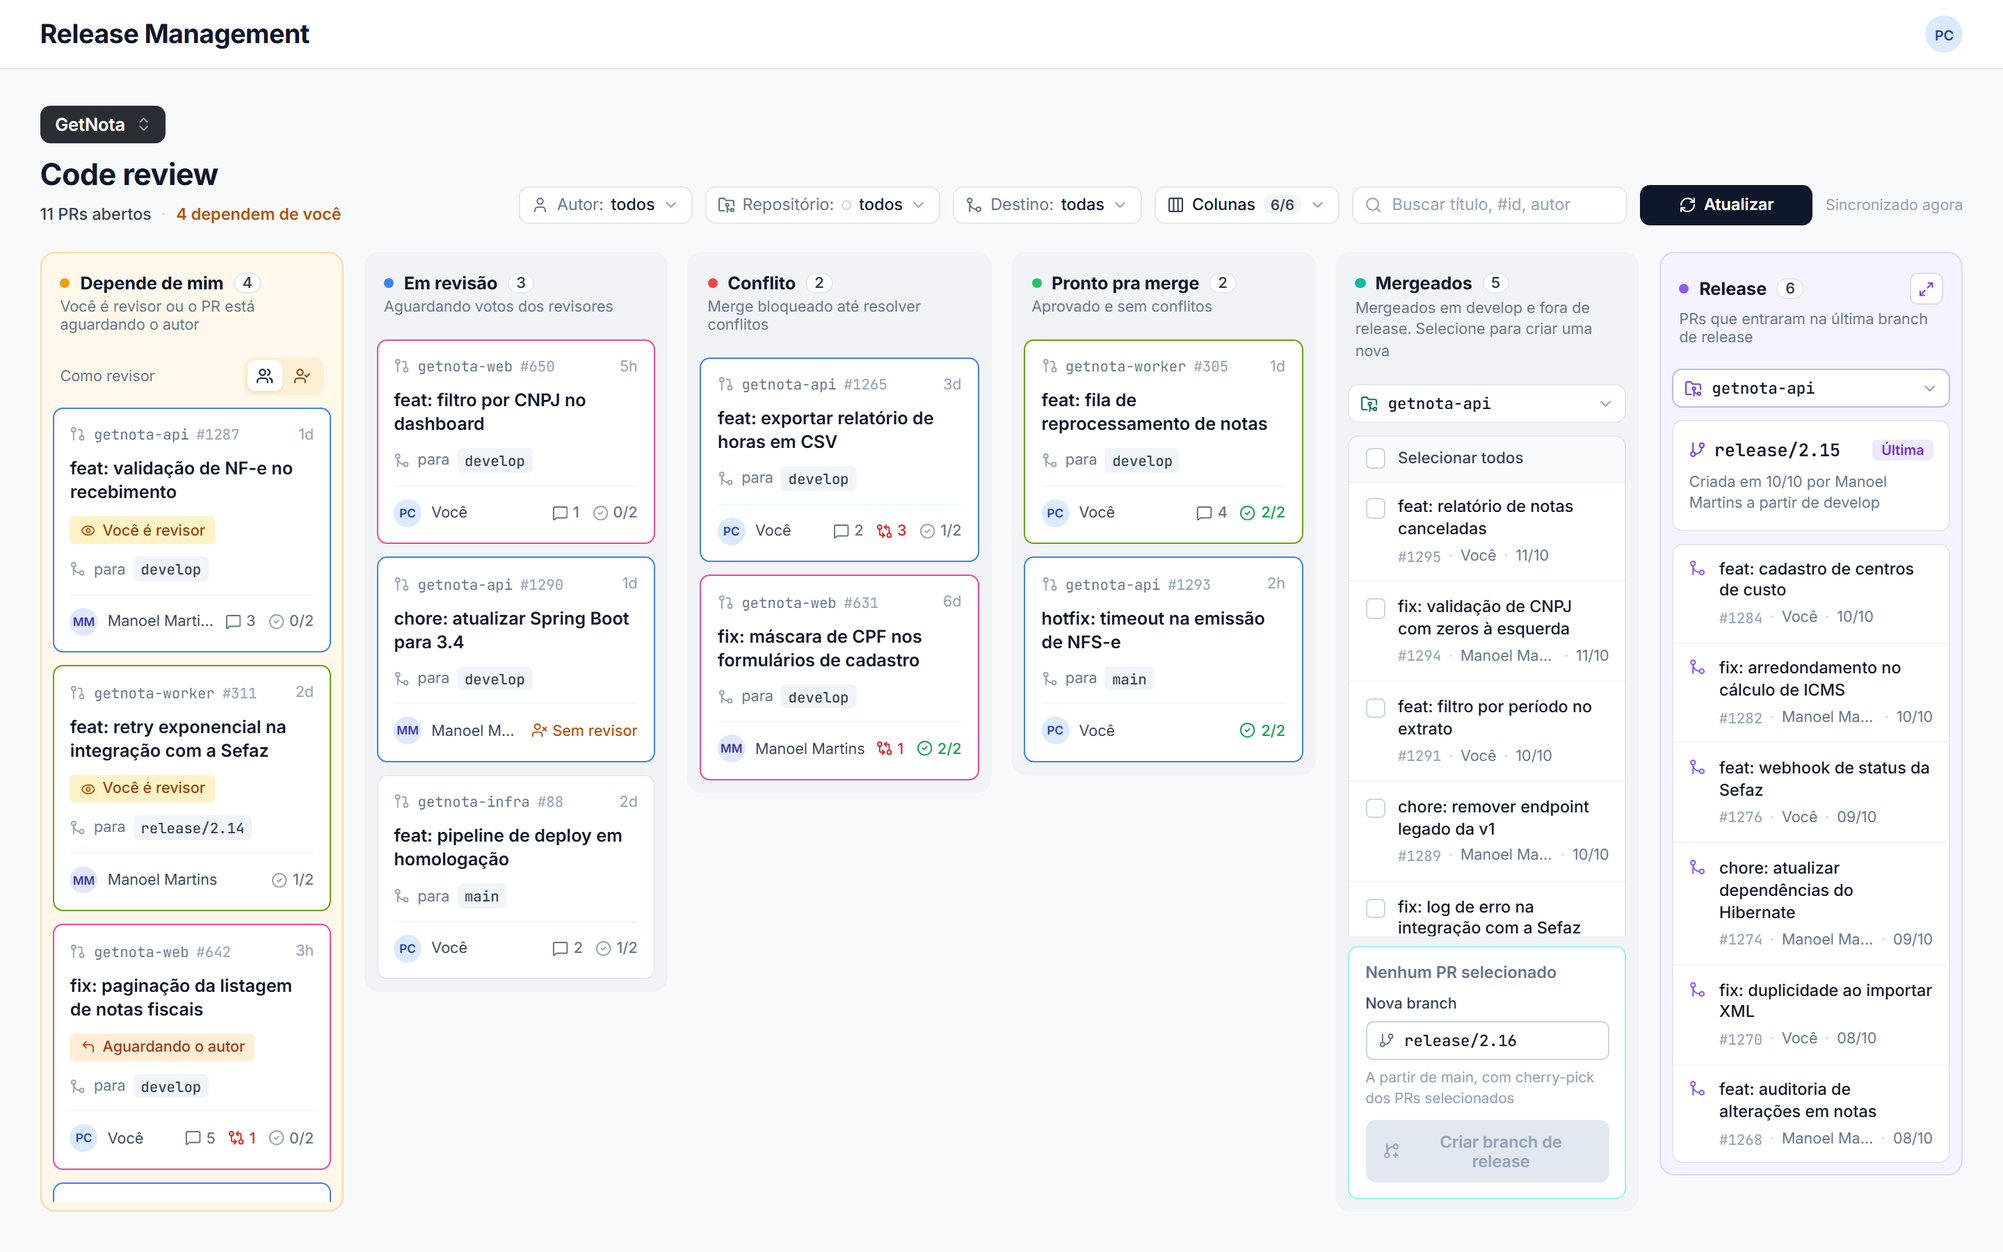
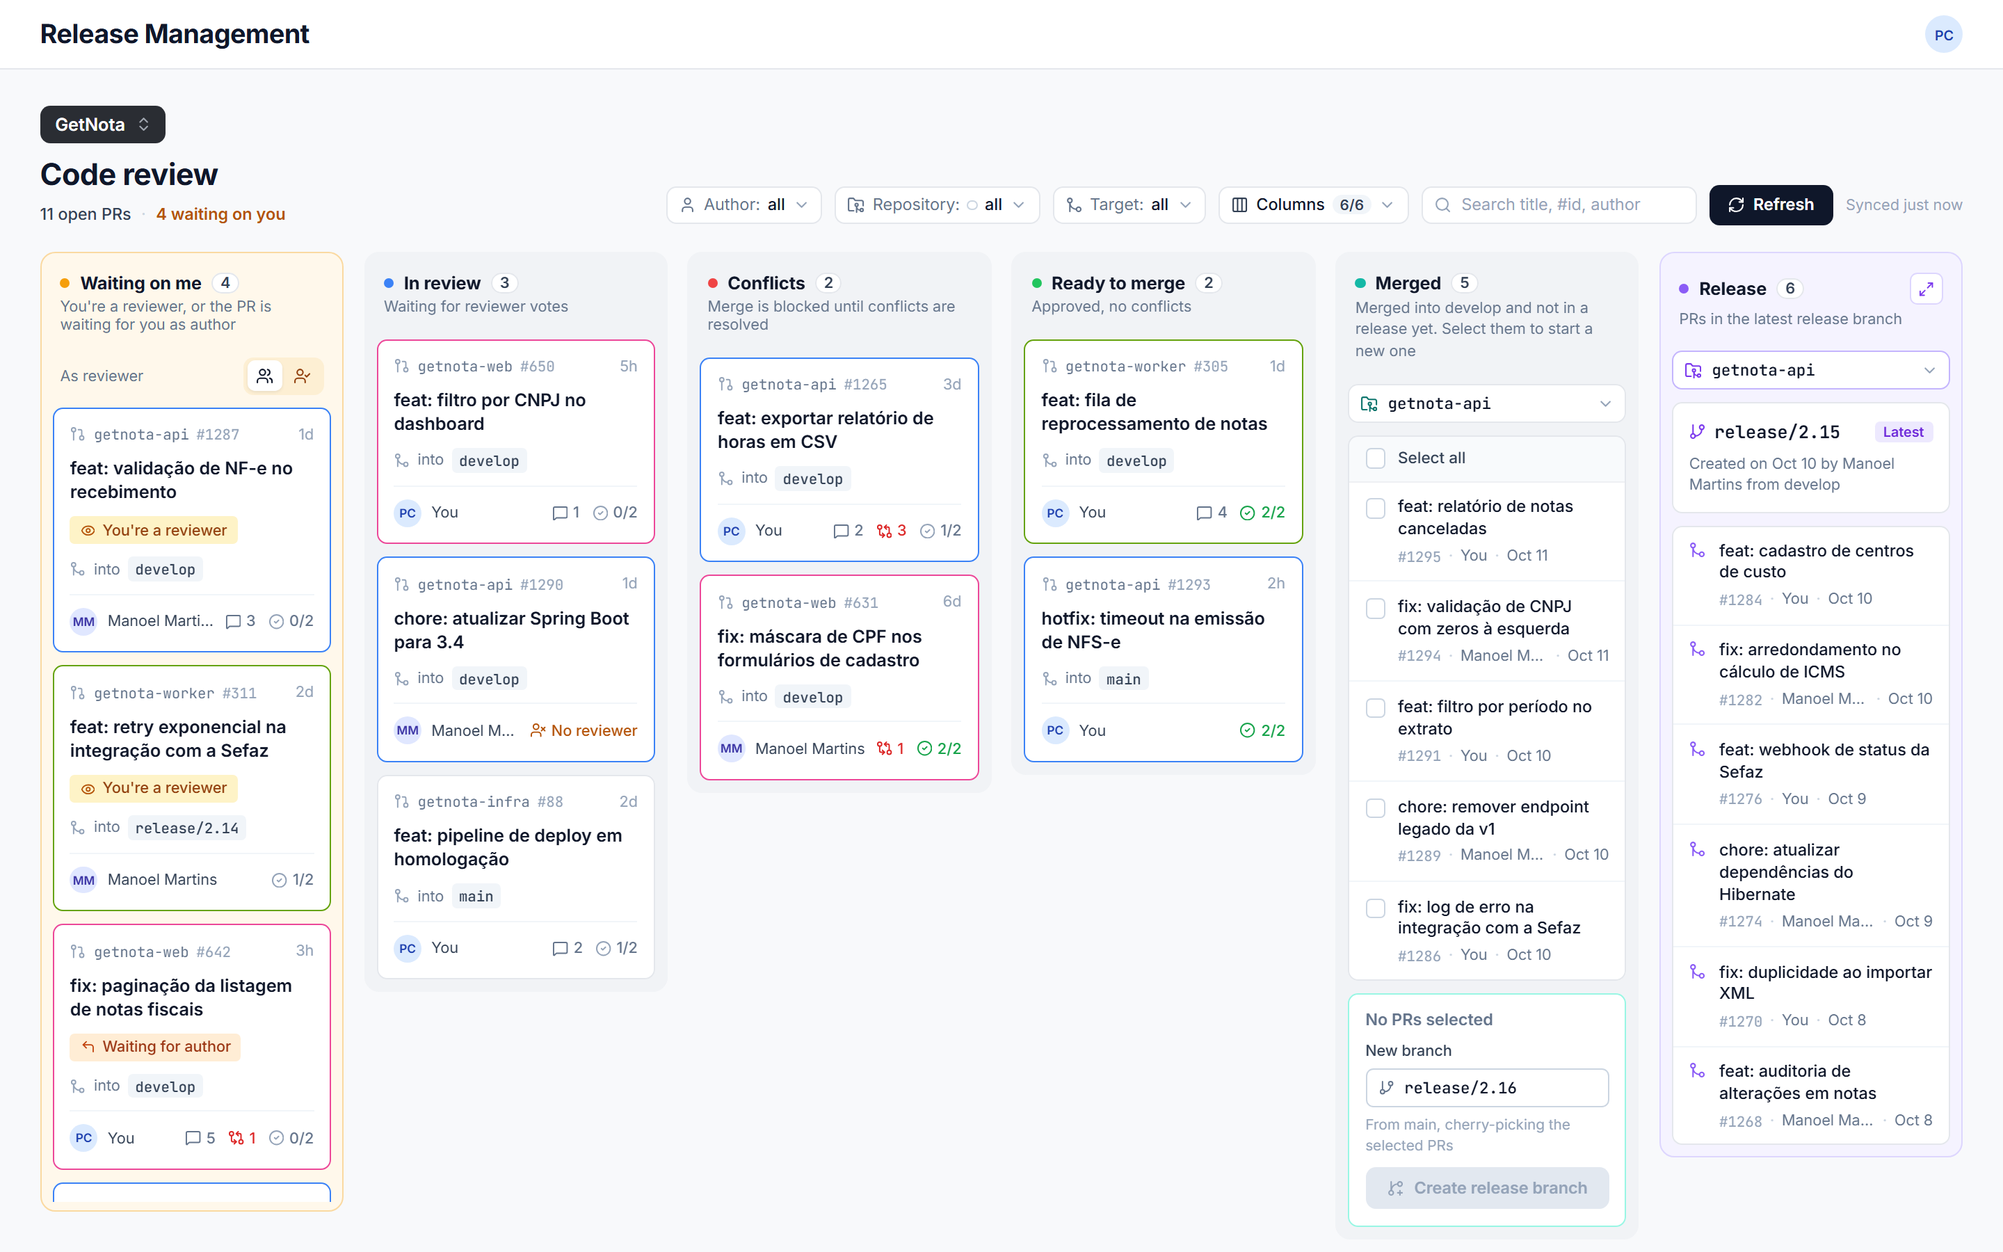
docs: README in English with English screenshots
The root README is now in English, without the paragraph about adding
another platform. Screenshots were retaken with the interface in English
and renamed; the capture script takes the language as a parameter.

diff --git a/README.md b/README.md
@@ -1,148 +1,148 @@
 # Release Management
 
-Board de code review e montagem de releases para times que trabalham com vários repositórios, pensado para um momento em que a IA gera código mais rápido do que as pessoas conseguem revisar. Reúne num só lugar os pull requests que dependem de você, o que já foi mergeado e ainda não entrou em release, e o conteúdo de cada release com as tasks de cada PR.
+A code review board and release builder for teams that work across many repositories, built for a time when AI writes code faster than people can review it. It brings together the pull requests waiting on you, what has been merged but not yet released, and the contents of each release with the task behind every PR.
 
-Os PRs vêm do **Azure DevOps** ou do **GitHub**; as tasks, do **Azure DevOps** ou do **Jira**. A ferramenta não guarda dados dessas plataformas: lê e escreve nelas com a conta de quem está usando, e cada pessoa só enxerga e altera o que as próprias permissões permitem.
+Pull requests come from **Azure DevOps** or **GitHub**; tasks come from **Azure DevOps** or **Jira**. The tool doesn't store data from these platforms: it reads and writes to them with the account of whoever is using it, so each person only sees and changes what their own permissions allow.
 
-![Board de code review](docs/images/board.png)
+![Code review board](docs/images/board.png)
 
-## Sumário
+## Contents
 
-- [Para que serve](#para-que-serve)
-- [Como funciona na prática](#como-funciona-na-prática)
-- [Formas de entrar](#formas-de-entrar)
-- [Como o token pessoal trafega](#como-o-token-pessoal-trafega)
-- [Arquitetura](#arquitetura)
+- [What it's for](#what-its-for)
+- [How it works](#how-it-works)
+- [Signing in](#signing-in)
+- [How the personal access token travels](#how-the-personal-access-token-travels)
+- [Architecture](#architecture)
 
-## Para que serve
+## What it's for
 
-### O gargalo mudou de lugar
+### The bottleneck has moved
 
-Com assistentes de IA, escrever código ficou rápido. O volume de pull requests cresceu, mas a capacidade de revisar continua sendo a das mesmas pessoas. O gargalo da entrega deixou de ser a escrita e passou a ser o **code review** e a organização em volta dele: saber o que está esperando por quem, o que já pode ser mergeado e o que de fato vai entrar na próxima release.
+With AI assistants, writing code got fast. The number of pull requests grew, but the capacity to review them is still that of the same people. The delivery bottleneck is no longer writing code: it's **code review** and the organization around it. That means knowing what is waiting on whom, what can already be merged, and what will actually go into the next release.
 
-As plataformas mostram os PRs repositório por repositório, o que funciona com poucos PRs por dia e deixa de funcionar quando eles se multiplicam. Esta ferramenta existe para dar a quem revisa uma fila única e priorizada, e para tirar do caminho o trabalho manual de montar a release depois que a revisão termina.
+The platforms show pull requests one repository at a time. That works with a few PRs a day and stops working once they multiply. This tool exists to give reviewers a single, prioritized queue, and to take the manual work of assembling a release out of the way once review is done.
 
-### As perguntas do dia a dia
+### The everyday questions
 
-Num produto com vários repositórios, três perguntas tomam tempo todos os dias:
+On a product with many repositories, three questions take up time every day:
 
-| Pergunta | Onde a ferramenta responde |
+| Question | Where the tool answers it |
 |---|---|
-| Que PRs estão esperando por mim? | Coluna **Depende de mim**: PRs em que você é revisor e ainda não votou, e PRs seus em que um revisor pediu mudança. |
-| O que já foi mergeado e ainda não saiu em release? | Coluna **Mergeados**: PRs concluídos em `develop` que não estão na base nem nas últimas releases. |
-| O que tem dentro desta release? | Coluna **Release** e a tela cheia: PRs da release agrupados por PBI e task, com o estado de cada uma. |
+| Which PRs are waiting on me? | The **Waiting on me** column: PRs where you're a reviewer and haven't voted yet, and your own PRs where a reviewer asked for changes. |
+| What has been merged but not released yet? | The **Merged** column: PRs completed into `develop` that aren't in the base branch or in the latest releases. |
+| What's in this release? | The **Release** column and its full-screen view: the release's PRs grouped by backlog item and task, with the state of each one. |
 
-A partir daí ela também faz duas coisas que hoje são manuais:
+From there it also does two things that are manual today:
 
-- **Cria a branch de release** a partir dos PRs escolhidos, com cherry-pick de cada um. Em conflito, nada fica criado pela metade.
-- **Vincula a task ao PR** que entrou na release sem vínculo, direto na plataforma de origem.
+- **Creates the release branch** from the PRs you pick, cherry-picking each one. If there's a conflict, nothing is left half-created.
+- **Links a task to a PR** that went into the release without one, directly on the platform it came from.
 
-## Como funciona na prática
+## How it works
 
 ### Board
 
-Os PRs abertos do projeto são distribuídos em quatro colunas (Depende de mim, Em revisão, Conflito, Pronto pra merge), ao lado das colunas Mergeados e Release. Os filtros de autor, repositório e destino, a busca e a escolha de colunas visíveis ficam no topo.
+The project's open PRs are spread across four columns (Waiting on me, In review, Conflicts, Ready to merge), next to the Merged and Release columns. Filters for author, repository and target branch, the search box and the choice of visible columns sit at the top.
 
-Cada repositório pode ganhar uma cor, que vira a borda dos cards dele. Assim dá para reconhecer de longe de onde é cada PR.
+Each repository can be given a color, which becomes the border of its cards. That makes it easy to tell at a glance where each PR comes from.
 
-![Seletor de cor por repositório](docs/images/cores-repositorio.png)
+![Repository color picker](docs/images/repository-colors.png)
 
-### Criar uma release
+### Creating a release
 
-Na coluna **Mergeados**, marque os PRs e confirme o nome da branch (a sugestão segue o padrão da última release do repositório). A ferramenta aplica os PRs por cherry-pick, na ordem em que foram mergeados, e só cria a branch quando todos passam.
+In the **Merged** column, select the PRs and confirm the branch name (the suggestion follows the pattern of the repository's latest release). The tool cherry-picks the PRs in the order they were merged, and only creates the branch once all of them apply cleanly.
 
-<img src="docs/images/criar-release.png" alt="Seleção de PRs e criação da branch de release" width="520">
+<img src="docs/images/create-release.png" alt="Selecting PRs and creating the release branch" width="520">
 
-### Release em tela cheia
+### Release in full screen
 
-A release mais recente de cada repositório abre numa tabela com os PRs agrupados por PBI e task, com o estado de cada item. PRs sem task aparecem num bloco de alerta no fim.
+The latest release of each repository opens as a table with its PRs grouped by backlog item and task, showing the state of each item. PRs without a task appear in a warning block at the end.
 
-![Release em tela cheia](docs/images/release.png)
+![Release in full screen](docs/images/release.png)
 
-Para um PR sem task, **Vincular task** busca os work items pelo título do PR ou pelo que você digitar. O vínculo é gravado na plataforma (Azure DevOps ou Jira) e pode ser desfeito.
+For a PR without a task, **Link task** searches work items by the PR title or by whatever you type. The link is saved on the platform (Azure DevOps or Jira) and can be undone.
 
-![Vincular uma task a um PR](docs/images/vincular-task.png)
+![Linking a task to a PR](docs/images/link-task.png)
 
-## Formas de entrar
+## Signing in
 
-![Entrada por token pessoal](docs/images/entrada-token.png)
+![Signing in with a personal access token](docs/images/token-sign-in.png)
 
-- **Token pessoal:** sempre disponível. Cada plataforma tem o próprio token, e o guia de escopos fica na tela de entrada.
-  - **Azure DevOps:** organização e Personal Access Token. Fornece os PRs e os work items.
-  - **GitHub:** organização (ou usuário) e fine-grained token. Fornece os PRs.
-  - **Jira:** site, e-mail da conta e API token. Fornece as tasks dos PRs do GitHub.
-- **Conta Microsoft:** aparece quando há um app registration do Microsoft Entra ID configurado. Vale só para o Azure DevOps. O passo a passo está em [`app/README.md`](app/README.md#conectar-ao-azure-devops).
+- **Personal access token:** always available. Each platform has its own token, and the scope guide is on the sign-in screen.
+  - **Azure DevOps:** organization and personal access token. Provides the PRs and the work items.
+  - **GitHub:** organization (or user) and fine-grained token. Provides the PRs.
+  - **Jira:** site, account email and API token. Provides the tasks for GitHub PRs.
+- **Microsoft account:** shown when a Microsoft Entra ID app registration is configured. It only covers Azure DevOps. The step-by-step setup is in [`app/README.md`](app/README.md#conectar-ao-azure-devops) (in Portuguese).
 
-As conexões se somam na mesma sessão. Para abrir o board é preciso o Azure DevOps ou o GitHub; com os dois conectados, o menu de contas escolhe de qual vêm os PRs.
+Connections add up within the same session. Opening the board requires Azure DevOps or GitHub; with both connected, the account menu chooses which one the PRs come from.
 
-## Como o token pessoal trafega
+## How the personal access token travels
 
-O token dá acesso à sua conta na plataforma, então o caminho dele é o ponto mais sensível da aplicação. Em resumo: ele sai do navegador cifrado, fica guardado cifrado, e só existe em claro na memória do servidor no instante de chamar a plataforma.
+The token gives access to your account on the platform, so its path is the most sensitive part of the application. In short: it leaves the browser encrypted, is stored encrypted, and only exists in plain text in the server's memory at the moment it calls the platform.
 
 ```mermaid
 sequenceDiagram
     autonumber
-    participant N as Navegador
-    participant S as Servidor
-    participant P as Plataforma<br/>(Azure DevOps, GitHub ou Jira)
+    participant B as Browser
+    participant S as Server
+    participant P as Platform<br/>(Azure DevOps, GitHub or Jira)
 
-    N->>S: GET /auth/pat/key
-    S-->>N: chave pública RSA + nonce de uso único
-    Note over N: Gera uma chave AES descartável,<br/>cifra { nonce, token } com AES-GCM<br/>e embrulha a chave AES com RSA-OAEP
-    N->>S: POST /auth/pat/:plataforma (envelope cifrado)
-    Note over S: Abre o envelope, confere e descarta o nonce,<br/>confere o formato do token
-    S->>P: valida o token (quem é o dono, acesso à organização)
-    P-->>S: dono do token
-    Note over S: Sela o token com AES-256-GCM<br/>e guarda na sessão
-    S-->>N: cookie de sessão (HttpOnly, sem o token)
-    N->>S: chamadas seguintes, só com o cookie
-    Note over S: Abre o token em memória<br/>só para a chamada
-    S->>P: chamada com o token
+    B->>S: GET /auth/pat/key
+    S-->>B: RSA public key + single-use nonce
+    Note over B: Generates a throwaway AES key,<br/>encrypts { nonce, token } with AES-GCM<br/>and wraps the AES key with RSA-OAEP
+    B->>S: POST /auth/pat/:platform (encrypted envelope)
+    Note over S: Opens the envelope, checks and discards the nonce,<br/>checks the token format
+    S->>P: validates the token (who owns it, access to the organization)
+    P-->>S: token owner
+    Note over S: Seals the token with AES-256-GCM<br/>and stores it in the session
+    S-->>B: session cookie (HttpOnly, no token inside)
+    B->>S: later calls, with the cookie only
+    Note over S: Opens the token in memory<br/>just for the call
+    S->>P: call with the token
 ```
 
-### No envio
+### In transit
 
-1. O navegador pede a chave pública do servidor. A resposta traz também um **nonce**, que vale para um único envio e por dois minutos.
-2. O navegador gera uma chave AES-256 descartável e cifra `{ nonce, token }` com AES-GCM. A chave AES é embrulhada com RSA-OAEP (SHA-256) usando a chave pública.
-3. Só esse envelope vai no corpo da requisição. O token não aparece em claro no corpo, em logs de proxy nem nas ferramentas de rede do navegador.
+1. The browser asks the server for its public key. The response also carries a **nonce**, valid for a single submission and for two minutes.
+2. The browser generates a throwaway AES-256 key and encrypts `{ nonce, token }` with AES-GCM. The AES key is wrapped with RSA-OAEP (SHA-256) using the public key.
+3. Only that envelope goes in the request body. The token doesn't appear in plain text in the body, in proxy logs or in the browser's network tools.
 
-O par de chaves RSA é gerado a cada inicialização do servidor e vive só na memória do processo.
+The RSA key pair is generated every time the server starts and lives only in the process memory.
 
-### No servidor
+### On the server
 
-1. O envelope é aberto com a chave privada. O nonce precisa existir, estar no prazo e nunca ter sido usado; ele é descartado na hora. Um envelope capturado não pode ser reenviado.
-2. O token é conferido (tamanho e apenas caracteres visíveis) e validado na própria plataforma, o que também revela de quem ele é.
-3. O token é **selado com AES-256-GCM**, com uma chave derivada do `SESSION_SECRET`, e guardado assim na sessão em memória e no arquivo `.data/sessions.enc`.
-4. A cada chamada à plataforma, o token é aberto em memória só para montar o cabeçalho da requisição. Ele nunca é gravado em log nem devolvido ao navegador.
+1. The envelope is opened with the private key. The nonce must exist, be within its time limit and never have been used; it is discarded on the spot. A captured envelope can't be sent again.
+2. The token is checked (length and visible characters only) and validated on the platform itself, which also reveals who owns it.
+3. The token is **sealed with AES-256-GCM**, using a key derived from `SESSION_SECRET`, and stored that way in the in-memory session and in the `.data/sessions.enc` file.
+4. On each call to the platform, the token is opened in memory only to build the request header. It is never written to a log or sent back to the browser.
 
-### No navegador
+### In the browser
 
-Fica apenas o cookie de sessão: um identificador opaco, assinado, `HttpOnly` e `SameSite=Lax` (e `Secure` em HTTPS). O token não vai para `localStorage` nem para nenhum outro armazenamento.
+Only the session cookie remains: an opaque, signed identifier, `HttpOnly` and `SameSite=Lax` (and `Secure` over HTTPS). The token doesn't go into `localStorage` or any other storage.
 
-### O que essa cifra não cobre
+### What this encryption doesn't cover
 
-A cifra do envio é uma camada a mais, não um substituto do HTTPS. Sem TLS, quem altera o tráfego pode trocar a chave pública, e o cookie de sessão fica exposto. **Em produção, use HTTPS.**
+Encrypting the token in transit is an extra layer, not a replacement for HTTPS. Without TLS, someone who can alter the traffic can swap the public key, and the session cookie is exposed. **Use HTTPS in production.**
 
-### Outras proteções
+### Other protections
 
-- Limite de 60 tentativas de entrada por minuto, por IP.
-- Escritas exigem um cabeçalho que outro site não consegue enviar (proteção contra CSRF).
-- Cabeçalhos de segurança em toda resposta (Content-Security-Policy, `X-Frame-Options`, `nosniff`, `Referrer-Policy` e, em HTTPS, HSTS).
-- Ids de projeto e repositório são validados e codificados antes de entrar no endereço da plataforma.
+- A limit of 60 sign-in attempts per minute, per IP.
+- Writes require a header that another site can't send (CSRF protection).
+- Security headers on every response (Content-Security-Policy, `X-Frame-Options`, `nosniff`, `Referrer-Policy` and, over HTTPS, HSTS).
+- Project and repository ids are validated and encoded before they go into the platform's URL.
 
-## Arquitetura
+## Architecture
 
-O servidor segue a arquitetura hexagonal: o núcleo define **portas** por capacidade e não conhece nenhuma plataforma. Cada plataforma é um **adapter** que implementa a porta.
+The server follows a hexagonal architecture: the core defines **ports** by capability and knows nothing about any platform. Each platform is an **adapter** that implements a port.
 
 ```mermaid
 flowchart LR
-    Web["Front<br/>React + Tailwind"] -->|HTTP| Http
+    Web["Front end<br/>React + Tailwind"] -->|HTTP| Http
 
-    subgraph Servidor
-        Http["adapters/http<br/>rotas e sessão"] --> Casos["core/usecases<br/>board, releases, vínculos"]
-        Casos --> SC(["porta<br/>SourceControl"])
-        Casos --> WT(["porta<br/>WorkTracking"])
-        Http --> IdP(["porta<br/>IdentityProvider"])
+    subgraph Server
+        Http["adapters/http<br/>routes and session"] --> UseCases["core/usecases<br/>board, releases, task links"]
+        UseCases --> SC(["port<br/>SourceControl"])
+        UseCases --> WT(["port<br/>WorkTracking"])
+        Http --> IdP(["port<br/>IdentityProvider"])
     end
 
     SC --> ADO["Azure DevOps"]
@@ -150,16 +150,14 @@ flowchart LR
     WT --> ADO
     WT --> Jira["Jira"]
     IdP --> Entra["Microsoft Entra ID"]
-    SC -.-> Mem["memória<br/>(demonstração e testes)"]
+    SC -.-> Mem["in memory<br/>(demo and tests)"]
     WT -.-> Mem
 ```
 
-| Parte | Tecnologia |
+| Part | Technology |
 |---|---|
-| Servidor | Node.js, TypeScript, Fastify |
-| Front | React 19, Vite, Tailwind CSS 4, TanStack Query, Radix UI |
-| Validação das respostas da API no front | zod |
-| Idiomas | Português, inglês e francês, pelo idioma do navegador |
-| Testes | Vitest |
-
-Para adicionar outra plataforma, implemente a porta correspondente em `app/server/src/adapters/` e registre em `registry.ts`. Os detalhes de como a release é montada em cada plataforma estão em [`app/README.md`](app/README.md#como-a-release-é-montada).
+| Server | Node.js, TypeScript, Fastify |
+| Front end | React 19, Vite, Tailwind CSS 4, TanStack Query, Radix UI |
+| Validation of API responses in the front end | zod |
+| Languages | Portuguese, English and French, following the browser language |
+| Tests | Vitest |
